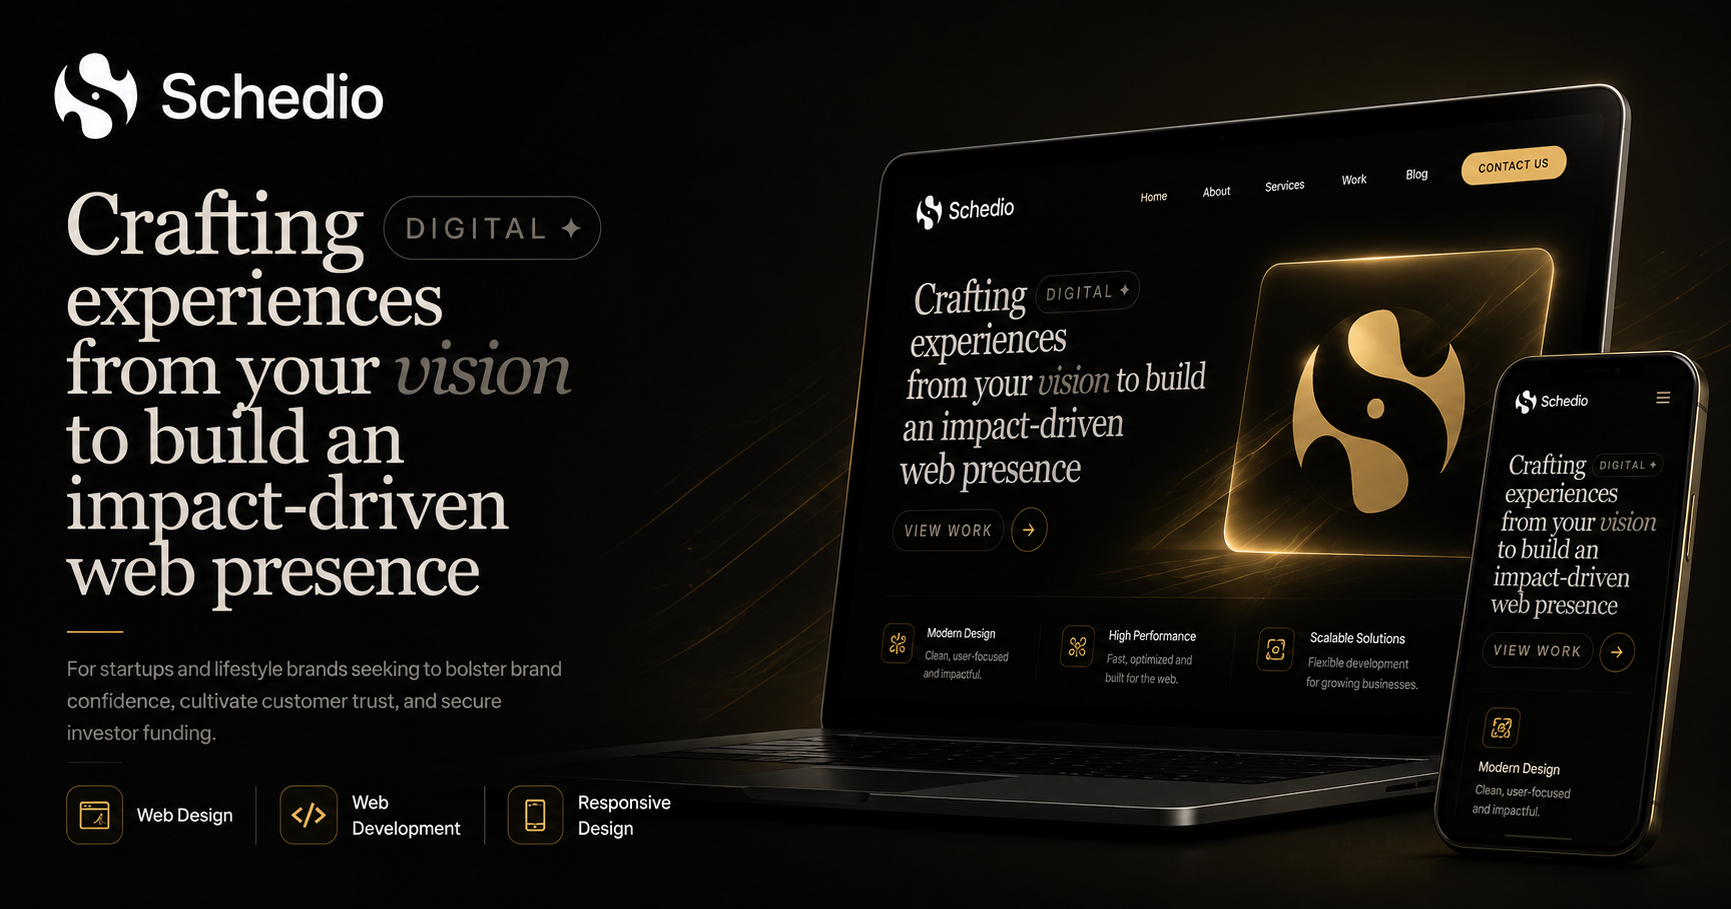
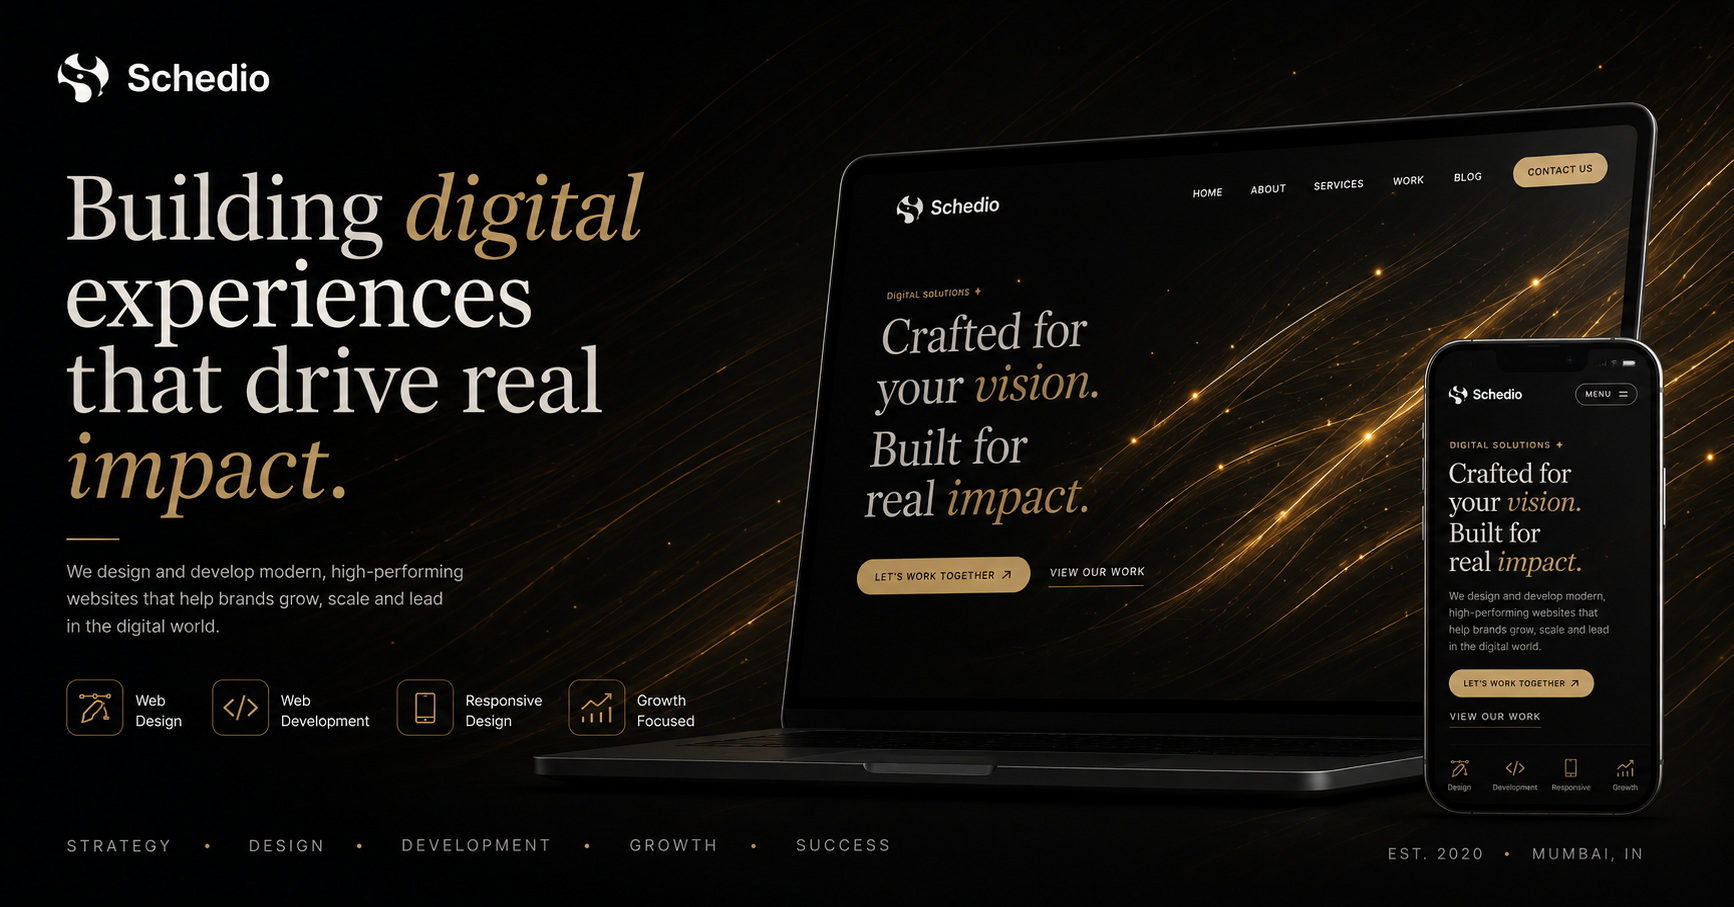
Switch display font to Bricolage Grotesque, speed up PageLoader, fix Navbar social links, update FAQ answer

diff --git a/src/components/layout/PageLoader.tsx b/src/components/layout/PageLoader.tsx
@@ -31,11 +31,11 @@ export default function PageLoader({ onComplete }: PageLoaderProps) {
         },
       });
 
-      // Letters rise from below — scoped selector, staggered in sync with counter
+      // Letters rise from below
       tl.fromTo(
         '.loader-letter',
         { yPercent: 120 },
-        { yPercent: 0, duration: 0.7, ease: 'power3.out', stagger: 0.08 },
+        { yPercent: 0, duration: 0.45, ease: 'power3.out', stagger: 0.05 },
         0
       );
 
@@ -43,7 +43,7 @@ export default function PageLoader({ onComplete }: PageLoaderProps) {
       const counter = { val: 0 };
       tl.to(counter, {
         val: 100,
-        duration: 1.5,
+        duration: 0.95,
         ease: 'power2.inOut',
         onUpdate() {
           if (countRef.current) {
@@ -53,15 +53,15 @@ export default function PageLoader({ onComplete }: PageLoaderProps) {
       }, 0);
 
       // Fade label out
-      tl.to(labelRef.current, { opacity: 0, duration: 0.25 }, '-=0.1');
+      tl.to(labelRef.current, { opacity: 0, duration: 0.2 }, '-=0.08');
 
       // Curtain split
       tl.to([topRef.current, botRef.current], {
         scaleY: 0,
-        duration: 0.85,
+        duration: 0.65,
         ease: 'power4.inOut',
-        stagger: 0.05,
-      }, '-=0.15');
+        stagger: 0.04,
+      }, '-=0.12');
 
     }, containerRef); // scope — selectors are relative to containerRef
 

diff --git a/src/app/layout.tsx b/src/app/layout.tsx
@@ -1,8 +1,8 @@
 import type { Metadata } from 'next';
 import './globals.css';
-import SmoothScrollProvider   from '@/components/layout/SmoothScrollProvider';
-import CustomCursor          from '@/components/layout/CustomCursor';
-import TransitionProvider    from '@/components/layout/TransitionProvider';
+import SmoothScrollProvider from '@/components/layout/SmoothScrollProvider';
+import CustomCursor         from '@/components/layout/CustomCursor';
+import TransitionProvider   from '@/components/layout/TransitionProvider';
 
 const ORG_SCHEMA = {
   '@context': 'https://schema.org',
@@ -41,7 +41,7 @@ const FAQ_SCHEMA = {
     { '@type': 'Question', name: 'How do we collaborate during a project?', acceptedAnswer: { '@type': 'Answer', text: 'Async updates in Notion or Linear, weekly live reviews on Google Meet, and a shared Figma board for everything visual.' } },
     { '@type': 'Question', name: 'What does it cost?', acceptedAnswer: { '@type': 'Answer', text: 'Pricing is tied to scope — we send a fixed quote after a short discovery call, no hidden line items.' } },
     { '@type': 'Question', name: 'Do you offer revisions?', acceptedAnswer: { '@type': 'Answer', text: 'Yes. Every engagement includes defined revision rounds at each stage until the work lands.' } },
-    { '@type': 'Question', name: 'Do you work with early-stage startups?', acceptedAnswer: { '@type': 'Answer', text: 'Often — we reserve a few slots each quarter for pre-seed and seed teams who care deeply about craft.' } },
+    { '@type': 'Question', name: 'Do you work with early-stage startups?', acceptedAnswer: { '@type': 'Answer', text: 'Yes — we work with startups, agencies, and growing brands at every stage. If you have a real problem to solve, we\'re in.' } },
   ],
 };
 
@@ -98,6 +98,11 @@ export default function RootLayout({
 }: Readonly<{ children: React.ReactNode }>) {
   return (
     <html lang="en">
+      <head>
+        <link rel="preconnect" href="https://fonts.googleapis.com" />
+        <link rel="preconnect" href="https://fonts.gstatic.com" crossOrigin="anonymous" />
+        <link href="https://fonts.googleapis.com/css2?family=Bricolage+Grotesque:opsz,wght@12..96,300;12..96,400;12..96,500;12..96,600;12..96,700;12..96,800&family=Inter:wght@300;400;500;600&family=Lora:ital,wght@0,400;0,500;0,600;1,400;1,500;1,600&display=swap" rel="stylesheet" />
+      </head>
       <body>
         <script type="application/ld+json" dangerouslySetInnerHTML={{ __html: JSON.stringify(ORG_SCHEMA) }} />
         <script type="application/ld+json" dangerouslySetInnerHTML={{ __html: JSON.stringify(FAQ_SCHEMA) }} />

diff --git a/src/app/globals.css b/src/app/globals.css
@@ -1,6 +1,3 @@
-/* ─── Google Fonts — must come first ────────────────────── */
-@import url('https://fonts.googleapis.com/css2?family=Lora:ital,wght@0,400;0,500;0,600;1,400;1,500;1,600&family=Playfair+Display:ital,wght@0,400;0,500;0,600;0,700;1,400;1,500;1,600&family=Inter:wght@300;400;500;600&display=swap');
-
 @import "tailwindcss";
 
 /* ─── CSS Custom Properties ──────────────────────────────── */
@@ -16,7 +13,7 @@
   --accent-light:#e8cfa0;
   --accent-dim:  #8a6e3e;
 
-  --font-display: 'Playfair Display', Georgia, serif;
+  --font-display: 'Bricolage Grotesque', system-ui, sans-serif;
   --font-lora:    'Lora', Georgia, serif;
   --font-body:    'Inter', system-ui, sans-serif;
 

diff --git a/src/components/layout/Navbar.tsx b/src/components/layout/Navbar.tsx
@@ -81,12 +81,12 @@ export default function Navbar({ isLoaded }: { isLoaded: boolean }) {
           />
           <span style={{
             fontFamily: 'var(--font-body)',
-            fontSize: '1.5rem',
+            fontSize: '1.2rem',
             fontWeight: 600,
             letterSpacing: '0.02em',
             color: 'var(--text)',
           }}>
-            Schedio
+            SCHEDIO
           </span>
         </Link>
 

diff --git a/src/components/sections/FAQ.tsx b/src/components/sections/FAQ.tsx
@@ -39,7 +39,7 @@ const FAQS: FAQItem[] = [
   },
   {
     q: 'Do you work with early-stage startups?',
-    a: 'Often we reserve a few slots each quarter for pre-seed and seed teams who care deeply about craft.',
+    a: "Yes - we work with startups, agencies, and growing brands at every stage. If you have a real problem to solve, we're in.",
     category: 'Engagement',
   },
 ];